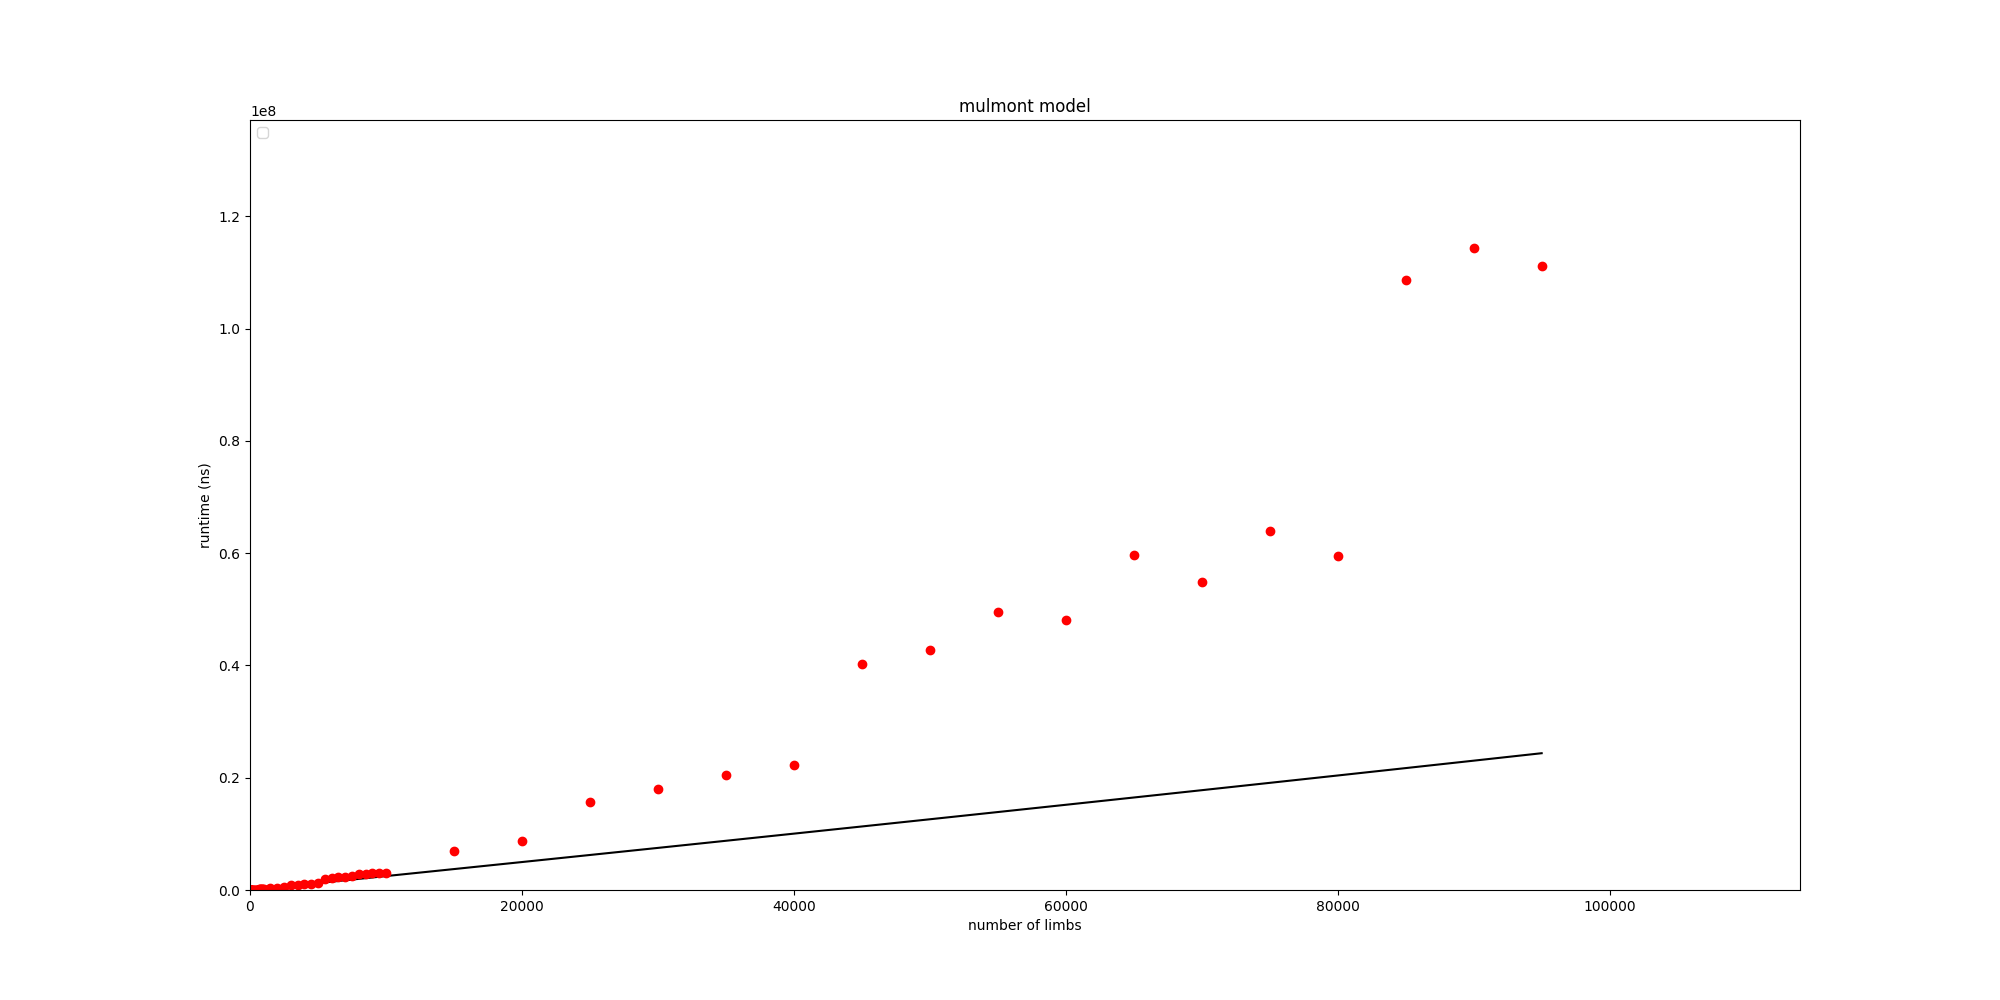
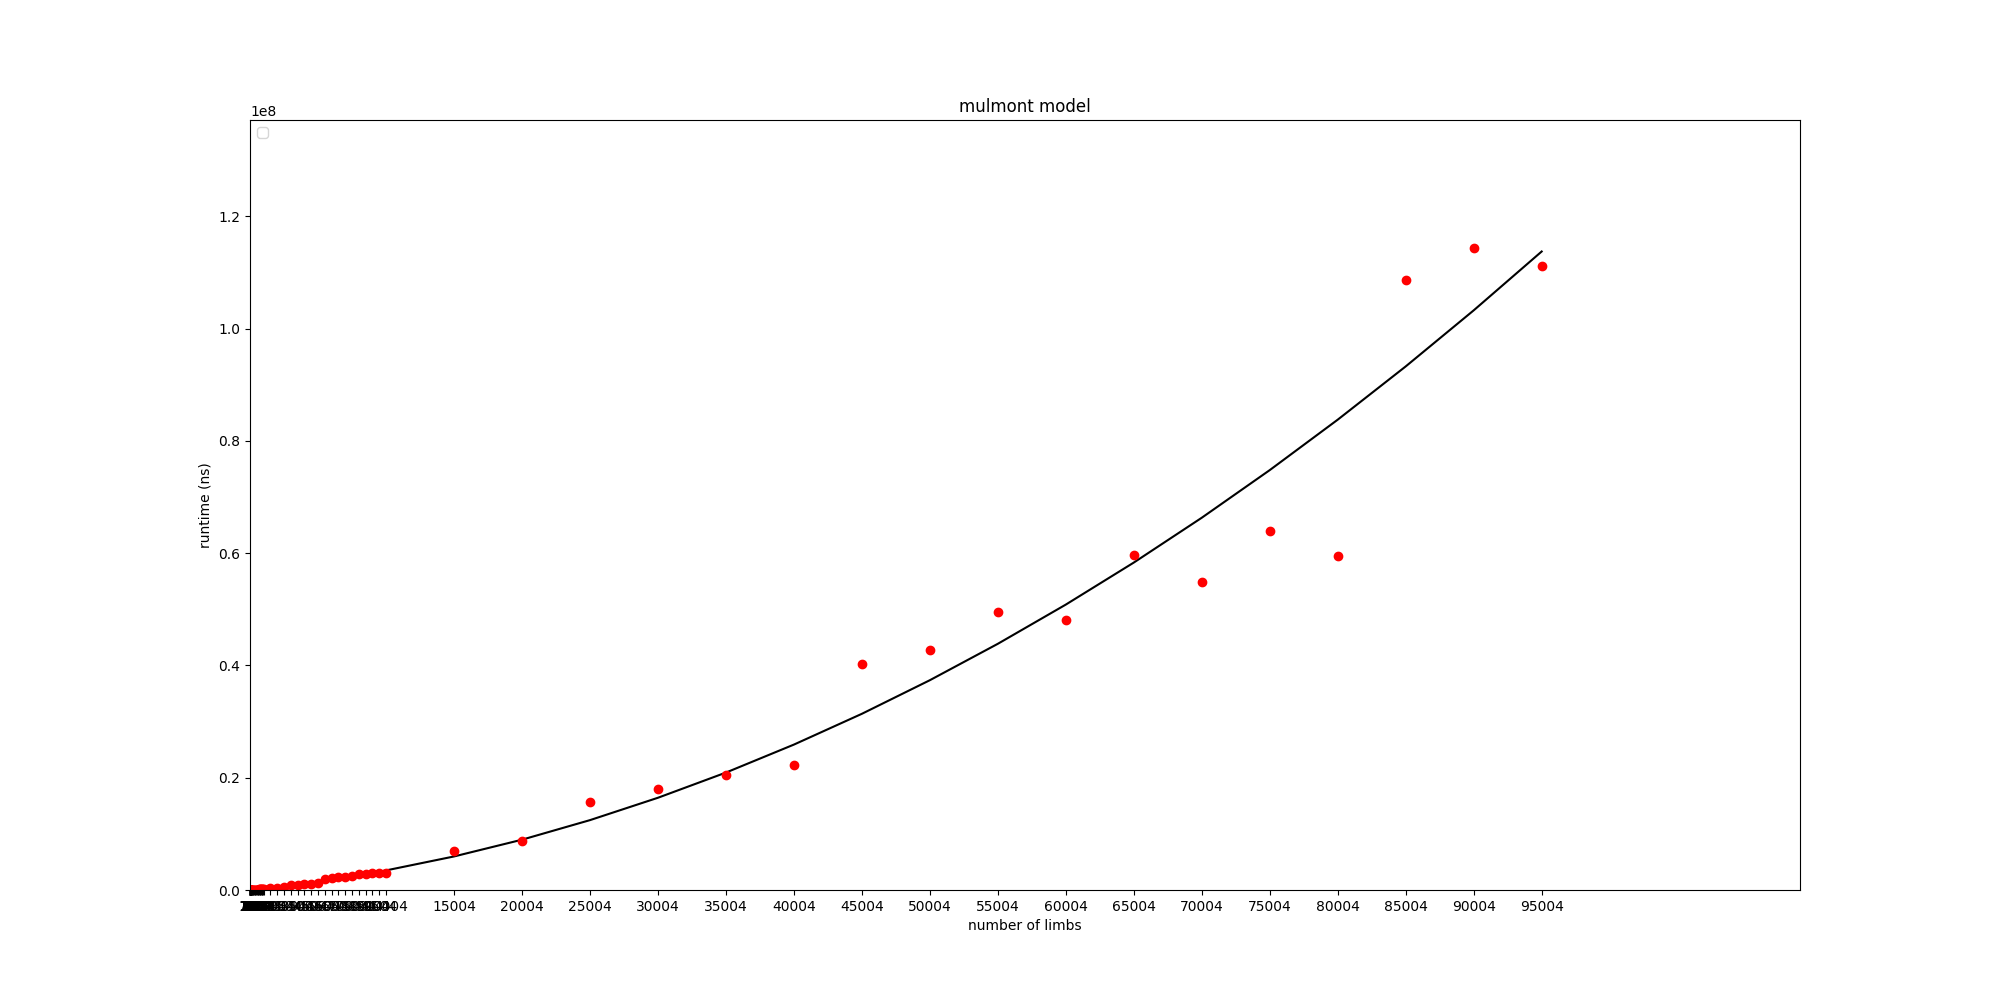
wip

diff --git a/plot.py b/plot.py
@@ -109,7 +109,6 @@ def scatterplot_ns_data(fname: str, name: str, graph_range, annotates: [bool], m
                 stripped_yerrs.append(y_err_val)
         stripped_args.append((arg[0], stripped_xs, stripped_ys, stripped_yerrs, arg[4], arg[5], arg[6]))
 
-    import pdb; pdb.set_trace()
     x_min_all = min([min([v for v in d[1]]) for d in stripped_args])
     x_max_all = max([max([v for v in d[1]]) for d in stripped_args])
     y_min_all = min([min([v for v in d[2]]) for d in stripped_args])
@@ -119,8 +118,9 @@ def scatterplot_ns_data(fname: str, name: str, graph_range, annotates: [bool], m
 
     plt.rcParams["figure.figsize"] = (20, 10)
     fig, ax = plt.subplots()
-    plt.ylim(0, y_min_all + span_y * 1.2)
-    plt.xlim(0, x_min_all + span_x * 1.2)
+    plt.ylim(0, y_min_all + int(span_y * 1.2))
+    plt.xlim(0, x_min_all + int(span_x * 1.2))
+    plt.xticks(stripped_args[0][1])
 
     for i, (x_range, x_vals, y_vals, y_errs, color, label, marker) in enumerate(stripped_args):
         assert len(x_vals) == len(y_vals)
@@ -326,7 +326,6 @@ setmod_generic_data = format_bench_data_for_graphing((1, 100000), go_arith_bench
 
 # linear cost for setmod up to cutoff
 # setmod_low_eqn, setmod_low_cost = fit_linear((1, 32), (1, fast_mulmont_cutoff), setmod_non_unrolled_data, False)
-#import pdb; pdb.set_trace()
 setmod_eqn = fit_linear((1, 16), go_arith_benchmarks['setmod']['generic'], True)
 # setmod_model = stitch_model(setmod_low_cost, setmod_high_cost, fast_mulmont_cutoff)
 
@@ -344,11 +343,9 @@ mulmont_eqn_hi = fit_quadratic((fast_mulmont_cutoff, 10000), mulmont_evmmax_hi, 
 benches_xs = list(sorted(set(list(mulmont_evmmax_low.keys()) + list(mulmont_evmmax_hi.keys()))))
 mulmont_model = prep_models_for_graphing([(mulmont_eqn_low, fast_mulmont_cutoff), (mulmont_eqn_hi, 100000)], 'mulmont model', benches_xs)
 
-import pdb; pdb.set_trace()
-
 mulmont_evmmax = stitch_data(go_arith_benchmarks['mulmont']['non-unrolled'], go_arith_benchmarks['mulmont']['generic'], fast_mulmont_cutoff)
-#scatterplot_ns_data("charts/mulmontmax_all.png", "mulmontmax arithmetic benchmarks with gas model", (1, 100000), [False, False], ["o", "-"], [mulmont_evmmax, mulmont_model])
-#scatterplot_ns_data("charts/mulmontmax_cutoff.png", "MULMONTMAX Arithmetic Benchmarks with Gas Model", (1, 64), [False, False], ["o", "-"], [mulmont_evmmax, mulmont_model])
+scatterplot_ns_data("charts/mulmontmax_all.png", "mulmontmax arithmetic benchmarks with gas model", (1, 100000), [False, False], ["o", "-"], [mulmont_evmmax, mulmont_model])
+scatterplot_ns_data("charts/mulmontmax_cutoff.png", "MULMONTMAX Arithmetic Benchmarks with Gas Model", (1, 64), [False, False], ["o", "-"], [mulmont_evmmax, mulmont_model])
 scatterplot_ns_data("charts/mulmontmax_low.png", "mulmontmax arithmetic benchmarks with gas model", (1, 16), [False, False], ["o", "-"], [mulmont_evmmax, mulmont_model])
 
 sys.exit(0)
